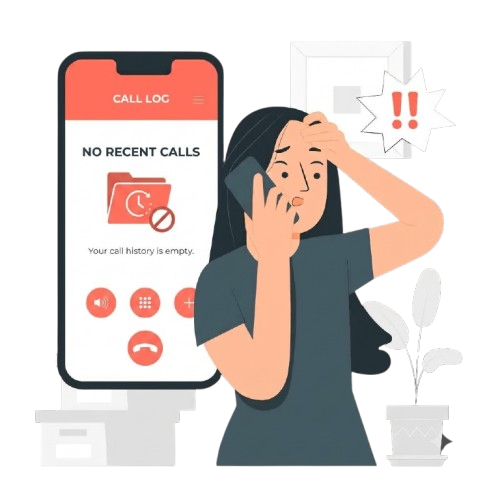
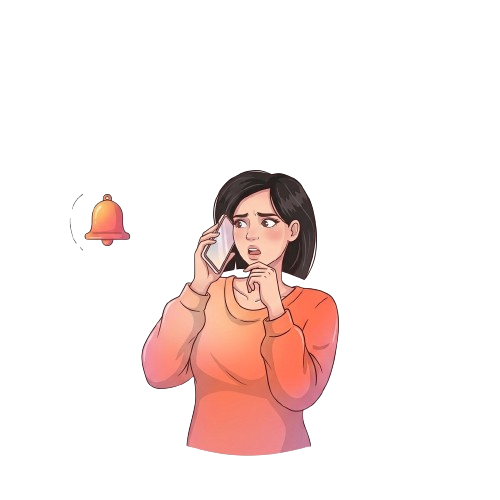
illustration update v-2

diff --git a/apps/web/src/components/SubscribePrompt.tsx b/apps/web/src/components/SubscribePrompt.tsx
@@ -131,40 +131,41 @@ export function SubscribePrompt({ expanded }: SubscribePromptProps) {
         aria-hidden={!expanded}
       >
 
-        <div className="relative mt-4 w-full h-48 overflow-hidden bg-gradient-to-b from-[#D95F59]/20 via-zinc-900/40 to-black flex items-center justify-center">
+        <div className="relative mt-4 w-full h-35 overflow-hidden bg-gradient-to-b from-[#D95F59]/20 via-zinc-900/40 to-black flex items-center justify-center">
           <img
             src={happyIllustration}
             alt=""
-            className="w-75  h-full object-cover object-center"
+            className="w-80 h-full object-cover object-center"
           />
-          <div className="absolute inset-0 bg-gradient-to-t from-black via-transparent to-transparent pointer-events-none" />
+          <div className="absolute inset-0 bg-gradient-to-t from-black/50 via-transparent to-transparent pointer-events-none" />
         </div>
 
         <div className="relative pl-4 space-y-6 mt-6 mx-5 before:absolute before:left-[27px] before:top-3 before:bottom-3 before:w-[2px] before:bg-zinc-800">
           <div className="relative flex items-start space-x-4">
             <div className="relative z-10 flex-shrink-0 w-10 h-10 rounded-full border border-[#D95F59] flex items-center justify-center text-[#D95F59] ">
               <svg
-                className="w-5 h-5"
-                fill="none"
-                viewBox="0 0 24 24"
-                stroke="currentColor"
-                strokeWidth={2}
-                aria-hidden="true"
-              >
-                <path
-                  strokeLinecap="round"
-                  strokeLinejoin="round"
-                  d="M12 15v2m-6 4h12a2 2 0 002-2v-6a2 2 0 00-2-2H6a2 2 0 00-2 2v6a2 2 0 002 2zm10-10V7a4 4 0 00-8 0v4h8z"
-                />
-              </svg>
+  className="w-5 h-5"
+  fill="none"
+  viewBox="0 0 24 24"
+  stroke="currentColor"
+  strokeWidth={2}
+  aria-hidden="true"
+>
+  <path
+    strokeLinecap="round"
+    strokeLinejoin="round"
+    d="M5 13l4 4L19 7"
+  />
+</svg>
+
             </div>
             <div>
               <h4 className="text-md font-semibold text-white">
                 Today
               </h4>
               <p className="text-sm text-zinc-400 mt-0.5 leading-normal">
-                Unlock full access to Call Reminders and  <br/> 
-                keep them active on daily basis.
+                (Free) Unlock full access to Call Reminders and 
+                keep them active.
               </p>
             </div>
           </div>

diff --git a/apps/web/src/pages/SubscriptionsPage.tsx b/apps/web/src/pages/SubscriptionsPage.tsx
@@ -9,6 +9,7 @@ import { iosTheme } from './iosTheme';
 import type { SubscriptionStatus } from '../lib/types';
 import LiquidGlass from 'liquid-glass-react';
 import { Link } from 'react-router-dom';
+import scheduleImage from '../../public/assets/not-found.png';
 
 const STATUS_LABEL: Record<SubscriptionStatus, string> = {
   ACTIVE: 'Active',
@@ -113,21 +114,14 @@ export default function SubscriptionsPage() {
                 <SkeletonRow />
               </>
             ) : !b || (!b.status && b.mode === 'none') ? (
-              <div className="ios-no-subscription">
-                <div className="ios-subscription-icon">
-                  <span>★</span>
-                </div>
-
-                <div>
-                  <div className="ios-no-subscription-title">
-                    No subscription yet
-                  </div>
-
-                  <div className="ios-no-subscription-description">
-                    Your subscription details will appear here.
-                  </div>
-                </div>
-              </div>
+   
+                <div className="w-full flex flex-col items-center justify-center gap-3 bg-transparent p-6 text-center">
+             <img src={scheduleImage} width="auto" height="10vh" className="opacity-70" alt="Call icon">
+</img>
+            <div> No Subscriptions Found</div>
+           
+          </div>
+           
             ) : (
               <>
                 {/* Status */}

diff --git a/apps/web/src/components/BottomNav.tsx b/apps/web/src/components/BottomNav.tsx
@@ -169,7 +169,7 @@ export default function BottomNav() {
     : 1;
 
   return (
-    <div className="fixed bottom-10 w-[90vw] max-w-md left-1/2 -translate-x-1/2 z-40">
+    <div className="fixed bottom-5 w-[90vw] max-w-md left-1/2 -translate-x-1/2 z-40">
       <nav
         aria-label="Primary"
         className="relative flex items-center justify-between gap-1 p-1.5 rounded-full border border-white/20 bg-[#1c1c1e]/80 backdrop-blur-2xl shadow-2xl overflow-visible"

diff --git a/apps/web/src/components/SubscribeSheet.tsx b/apps/web/src/components/SubscribeSheet.tsx
@@ -42,7 +42,7 @@ export default function SubscribeSheet({
     ? { duration: 0 }
     : { type: 'spring', stiffness: 320, damping: 34, mass: 0.9 };
 
-  const height = expanded ? '99dvh' : String(collapsedHeight ?? 'auto');
+  const height = expanded ? '110dvh' : String(collapsedHeight ?? 'auto');
 
   return (
     <AnimatePresence>

diff --git a/apps/web/vite.config.ts b/apps/web/vite.config.ts
@@ -7,7 +7,7 @@ export default defineConfig({
   server: {
     port: 5173,
     allowedHosts: [
-      '3e5f-2405-201-5c1b-2050-e539-12d8-4a24-9dfc.ngrok-free.app'
+      "60f7-2405-201-5c1b-2050-e539-12d8-4a24-9dfc.ngrok-free.app"
     ]
   }
 });
